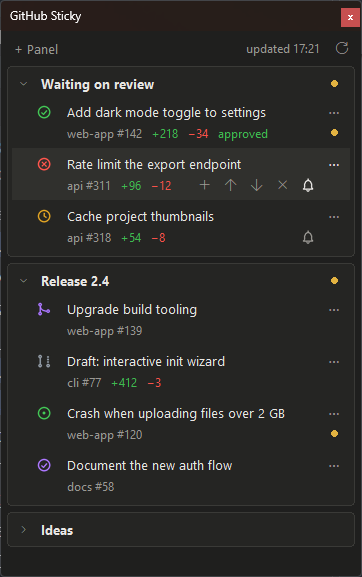
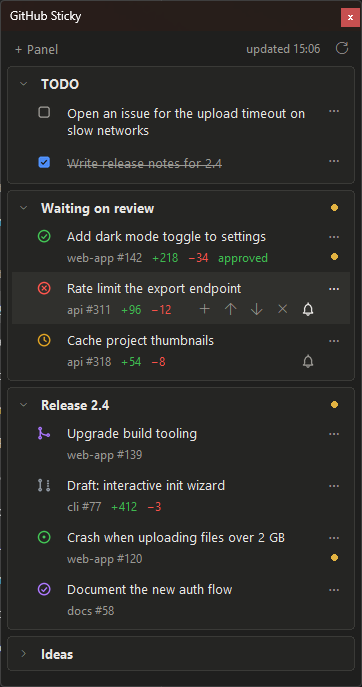
Add notes: local reminders with a checkbox, in any panel
Text without a GitHub link typed into the add box becomes a note. Notes
wrap, can be ticked, edited inline (double-click), moved like items, linked
to a PR/issue once it exists, and cleared from the panel menu when done.
They live in the state file and are never sent to GitHub.

diff --git a/README.md b/README.md
@@ -14,6 +14,11 @@ Claude desktop app.
   actions, double-click it to rename).
 - Items are added by hand: paste one or more PR/issue links (or
   `owner/repo#123`) into a panel's add box. No filters or searches.
+- Anything else typed into the add box becomes a note: a local reminder with a
+  checkbox, for things that have no issue or PR yet (a "TODO" panel moved to
+  the top works well). Double-click a note to edit it; "Link to PR/issue…" in
+  its menu turns it into the tracked item once one exists, and "Clear done
+  notes" in the panel menu removes the ticked ones.
 - Each item shows its title, `repo #number`, `+additions −deletions` and the
   review decision (approved / changes requested) for open PRs, and an icon for
   its state: CI result for open PRs (passed, failed, running), draft, merged,
